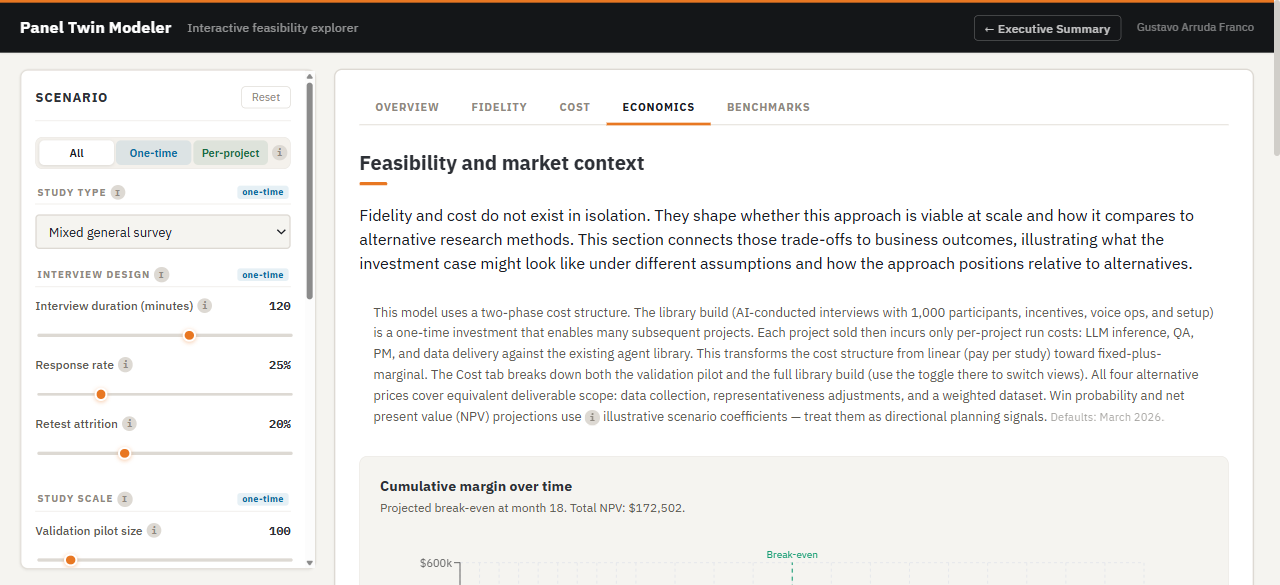
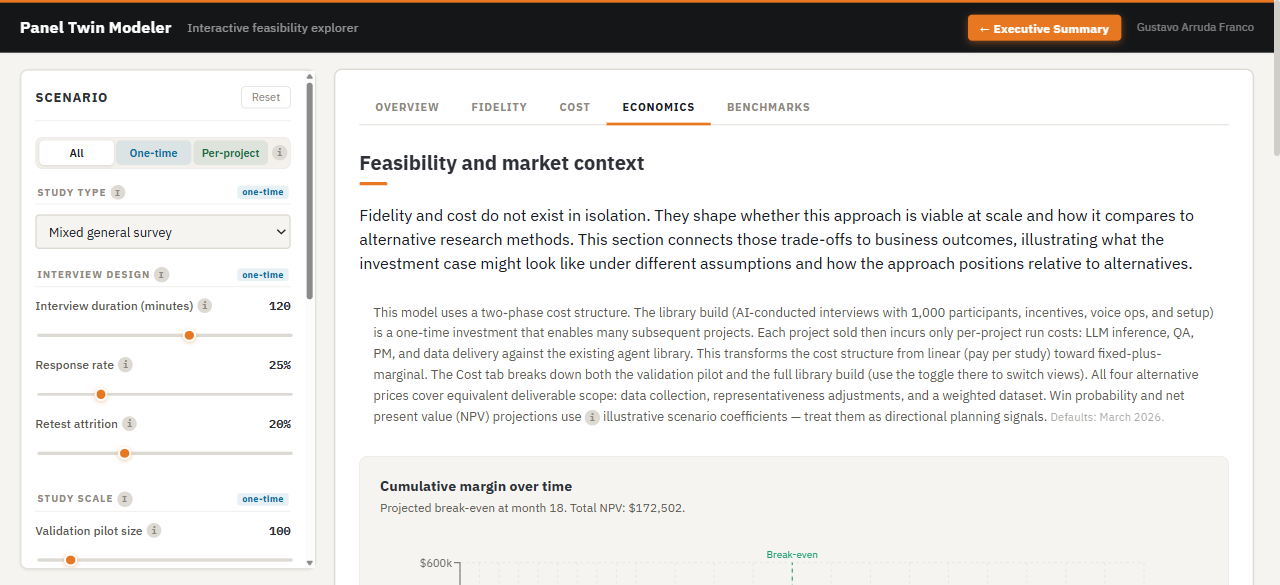
Style Executive Summary button to match CTA orange (brand consistency)
Changed from outlined ghost style to solid orange fill matching the
'Explore the model' CTA button on the landing page. Uses brand-orange
background, white bold text, orange glow shadow, and hover lift —
same visual language as the primary CTA. Focus-visible outline is now
white (against orange background) for correct contrast. Updated hero
screenshot.

Changed region(s): [[0.75, 0.0, 0.875, 0.0923]]

diff --git a/docs-app/src/App.css b/docs-app/src/App.css
@@ -603,26 +603,28 @@
 
 .app-header-back-btn {
   margin-left: auto;
-  background: transparent;
-  border: 1px solid rgba(255, 255, 255, 0.3);
+  background: var(--brand-orange);
+  border: none;
   border-radius: 4px;
-  color: rgba(255, 255, 255, 0.75);
+  color: #fff;
   font-size: 12px;
   font-family: var(--font-body);
-  font-weight: 500;
+  font-weight: 700;
   letter-spacing: 0.2px;
-  padding: 4px 10px;
+  padding: 5px 12px;
   cursor: pointer;
   white-space: nowrap;
-  transition: border-color 0.15s, color 0.15s, background 0.15s;
+  box-shadow: 0 2px 8px rgba(232, 119, 34, 0.45);
+  transition: background 0.15s, transform 0.12s, box-shadow 0.15s;
 }
 .app-header-back-btn:hover {
-  border-color: var(--brand-orange);
-  color: var(--brand-orange);
-  background: rgba(255, 255, 255, 0.04);
+  background: var(--brand-orange-deep);
+  transform: translateY(-1px);
+  box-shadow: 0 4px 12px rgba(232, 119, 34, 0.5);
 }
+.app-header-back-btn:active { transform: translateY(0); }
 .app-header-back-btn:focus-visible {
-  outline: 2px solid var(--brand-orange);
+  outline: 2px solid #fff;
   outline-offset: 2px;
 }
 
